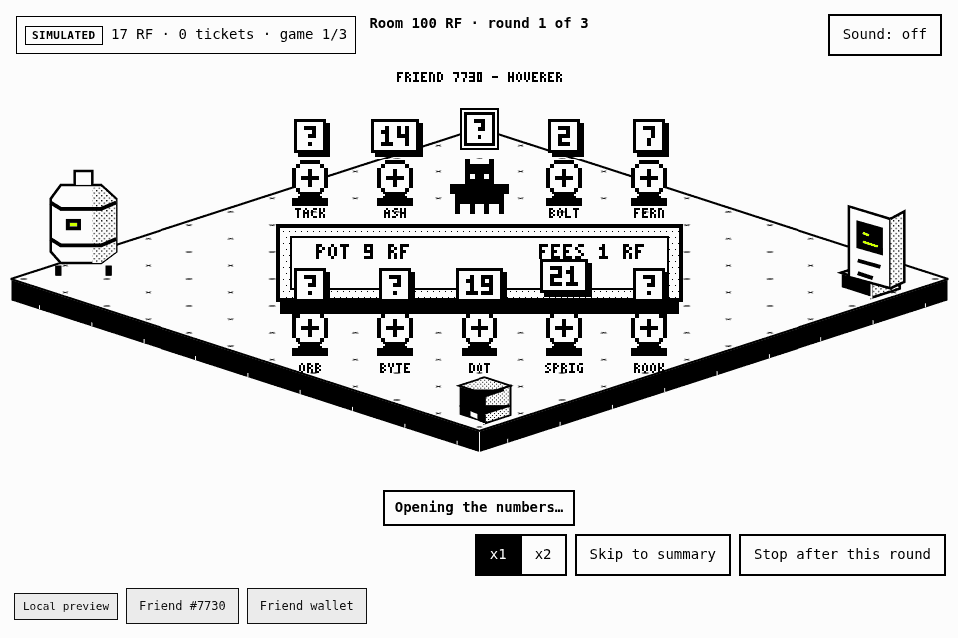
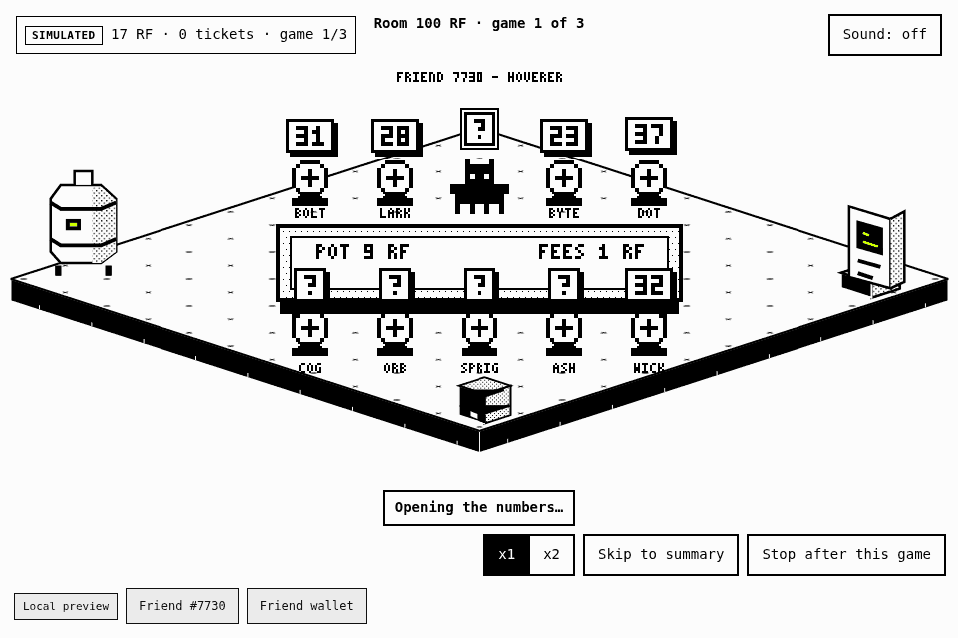
Use "game" everywhere in the Friend Rooms UI and tidy two menu texts
The interface now says "game" instead of "round" (table title, Stop after this game, Resume N
unfinished games, errors), because "round" is reserved for the future timer-started batch of
tables. The door menu says "All amounts are SIMULATED." and the locked door text now refers to
stake levels, rounds with real players and a room contract. Game logic and rules are unchanged.
Tests, the capture script and all images are updated; the README gains a roadmap and a short
Design decisions section.

diff --git a/games/friend-rooms/index.tsx b/games/friend-rooms/index.tsx
@@ -166,7 +166,7 @@ export default function FriendRooms({ friendId, client, paused }: GameComponentP
     setRevealed(SEATS);
   }
 
-  /** Settle each round with the SDK, then deal a table that matches its result and open it. */
+  /** Settle each game with the SDK, then deal a table that matches its result and open it. */
   async function playRounds(ids: readonly bigint[], version: number) {
     stop.current = false; skip.current = false; setStopping(false); setSkipping(false);
     setScreen("room"); setVisited(true); setPhase("playing"); setRound(null); setRevealed(0);
@@ -179,7 +179,7 @@ export default function FriendRooms({ friendId, client, paused }: GameComponentP
         const result = await client.settle(id);
         if (version !== epoch.current) return;
         const outcome = result.outcomeId === null ? undefined : definition.outcomes[result.outcomeId - 1];
-        if (!outcome) throw new Error("This round is still pending. Use Resume to continue it.");
+        if (!outcome) throw new Error("This game is still pending. Use Resume to continue it.");
         const deal = dealTable(outcome.reward > 0n);
         done++;
         setRound({ number: done, deal }); setRevealed(0); setProgress({ done, total: ids.length });
@@ -194,7 +194,7 @@ export default function FriendRooms({ friendId, client, paused }: GameComponentP
         if (version !== epoch.current) return;
       }
     } catch (cause) {
-      if (version === epoch.current) { setError(errorText(cause, "A round could not be settled.")); setPhase("stopped"); void client.read().then(setSnapshot); }
+      if (version === epoch.current) { setError(errorText(cause, "A game could not be settled.")); setPhase("stopped"); void client.read().then(setSnapshot); }
       return;
     }
     const after = await client.read();
@@ -203,7 +203,7 @@ export default function FriendRooms({ friendId, client, paused }: GameComponentP
     setPhase(after.plays.some(play => play.outcomeId === null) ? "stopped" : "done"); setStopping(false);
   }
 
-  /** One SDK prompt to buy the missing tickets, one to use them, then the rounds play one after another. */
+  /** One SDK prompt to buy the missing tickets, one to use them, then the games play one after another. */
   const start = (gamesToPlay: number) => run(async version => {
     const current = await client.read();
     const missingTickets = BigInt(gamesToPlay) - current.consumables;
@@ -214,7 +214,7 @@ export default function FriendRooms({ friendId, client, paused }: GameComponentP
     await playRounds(plays.map(play => play.id), version);
   });
 
-  /** Unfinished rounds stay with the Friend. Resume settles those same plays; it never buys or uses another ticket. */
+  /** Unfinished games stay with the Friend. Resume settles those same plays; it never buys or uses another ticket. */
   const resume = () => run(async version => {
     const pending = (await client.read()).plays.filter(play => play.outcomeId === null).map(play => play.id);
     if (!pending.length) { load(); return; }
@@ -234,7 +234,7 @@ export default function FriendRooms({ friendId, client, paused }: GameComponentP
   const toggleSound = () => { const next = !muted; setMuted(next); sound.current?.setMuted(next); if (!next) void sound.current?.unlock(); };
   const soundState = muted ? "off" : "on", soundAction = muted ? "turn on" : "turn off";
   const missing = Math.max(0, games - Number(snapshot.consumables));
-  const blocked = unfinished.length > 0 ? "Finish your unfinished rounds first." : maxGames === 0
+  const blocked = unfinished.length > 0 ? "Finish your unfinished games first." : maxGames === 0
     ? (snapshot.rfBalance < definition.price ? "Not enough simulated RF for a ticket." : "New tickets are paused until winnings are collected and prize backing is free again.") : "";
   const hud = <div className="fr-hud"><span><b className="fr-tag">SIMULATED</b> {rf(snapshot.rfBalance)} · {snapshot.consumables.toString()} tickets
     {screen === "room" && progress.total > 0 && <> · game {progress.done}/{progress.total}</>}</span>
@@ -253,7 +253,7 @@ export default function FriendRooms({ friendId, client, paused }: GameComponentP
       <RoomScene friendId={friendId} deal={round?.deal ?? null} revealed={revealed} reducedMotion={reducedMotion}
         potLabel={rf(economy.pot)} feeLabel={rf(economy.tableFees)} />
       {hud}
-      <p className="fr-room-title">{round ? `Room ${designRf} RF · round ${round.number} of ${progress.total}` : `Room ${designRf} RF`}</p>
+      <p className="fr-room-title">{round ? `Room ${designRf} RF · game ${round.number} of ${progress.total}` : `Room ${designRf} RF`}</p>
       <p className="fr-result">{round && revealed >= SEATS
         ? <><b role="status">{describeResult(round.deal)}</b>{round.deal.won && <span> +{rf(prize)} SIMULATED</span>}</>
         : <b role="status">{round ? "Opening the numbers…" : phase === "playing" ? "Dealing the table…" : "Table closed."}</b>}</p>
@@ -263,8 +263,8 @@ export default function FriendRooms({ friendId, client, paused }: GameComponentP
             <button type="button" aria-pressed={speed === 1} onClick={() => setSpeed(1)}>x1</button>
             <button type="button" aria-pressed={speed === 2} onClick={() => setSpeed(2)}>x2</button></span>
           <button type="button" disabled={skipping || paused} onClick={() => { skip.current = true; setSkipping(true); }}>{skipping ? "Skipping…" : "Skip to summary"}</button>
-          <button type="button" disabled={stopping || paused} onClick={() => { stop.current = true; setStopping(true); }}>{stopping ? "Stopping…" : "Stop after this round"}</button></> : <>
-          {phase === "stopped" && unfinished.length > 0 && <button type="button" className="rf-frame-primary" disabled={busy || paused} onClick={() => void resume()}>Resume {unfinished.length} unfinished {unfinished.length === 1 ? "round" : "rounds"}</button>}
+          <button type="button" disabled={stopping || paused} onClick={() => { stop.current = true; setStopping(true); }}>{stopping ? "Stopping…" : "Stop after this game"}</button></> : <>
+          {phase === "stopped" && unfinished.length > 0 && <button type="button" className="rf-frame-primary" disabled={busy || paused} onClick={() => void resume()}>Resume {unfinished.length} unfinished {unfinished.length === 1 ? "game" : "games"}</button>}
           <button type="button" className={phase === "done" ? "rf-frame-primary" : undefined} disabled={paused} onClick={() => setMenu("receipt")}>Session receipt</button>
           <button type="button" disabled={busy || paused} onClick={backToHall}>Back to the hall</button></>}
       </div>
@@ -284,18 +284,18 @@ export default function FriendRooms({ friendId, client, paused }: GameComponentP
         <table><thead><tr><th>Result</th><th>Chance</th><th>Prize</th></tr></thead><tbody>{definition.outcomes.map(item =>
           <tr key={item.name}><td>{item.name}</td><td>{item.chanceBps / 100}%</td><td>{rf(item.reward)}</td></tr>)}</tbody></table>
         {winsWaiting > 0n && <p>Winnings waiting: {rf(winningsWaiting)}. <button type="button" disabled={busy || paused} onClick={() => void collect()}>Collect winnings</button></p>}
-        {unfinished.length > 0 && <p>You have {unfinished.length} unfinished {unfinished.length === 1 ? "round" : "rounds"}.
-          {" "}<button type="button" className="rf-frame-primary" disabled={busy || paused} onClick={() => void resume()}>Finish unfinished rounds</button></p>}
+        {unfinished.length > 0 && <p>You have {unfinished.length} unfinished {unfinished.length === 1 ? "game" : "games"}.
+          {" "}<button type="button" className="rf-frame-primary" disabled={busy || paused} onClick={() => void resume()}>Finish unfinished games</button></p>}
         <label>Games to play: <b>{games}</b>
           <input type="range" min={1} max={Math.max(maxGames, 1)} value={games} disabled={maxGames < 2 || busy || paused} aria-label="Games to play"
             onChange={event => setGames(Number(event.target.value))} /></label>
-        <p>{games} {games === 1 ? "game" : "games"} · {rf(definition.price * BigInt(games))}, including {rf(economy.fee * BigInt(games))} table fee (burned in the model). SIMULATED. You confirm {missing > 0 ? "two SDK prompts: buy the tickets, then use them" : "one SDK prompt: use your tickets"}. The Friend then plays all games on its own.</p>
+        <p>{games} {games === 1 ? "game" : "games"} · {rf(definition.price * BigInt(games))}, including {rf(economy.fee * BigInt(games))} table fee (burned in the model). All amounts are SIMULATED. You confirm {missing > 0 ? "two SDK prompts: buy the tickets, then use them" : "one SDK prompt: use your tickets"}. The Friend then plays all games on its own.</p>
         <button type="button" className="rf-frame-primary" disabled={Boolean(blocked) || busy || paused} onClick={() => void start(games)}>Play {games} {games === 1 ? "game" : "games"} · {rf(definition.price * BigInt(games))}</button>
         {blocked && <p>{blocked}</p>}
         <p>Each ticket reserves {rf(prize)} of prize backing in the SDK preview, so a run is limited to {maxGames} {maxGames === 1 ? "game" : "games"} right now.</p>
       </> : menu === "locked" ? <>
         <p>Room {count(lockedRoom)} RF needs future SDK support.</p>
-        <p>SDK v0.1 sells one ticket type in a private preview. Higher stakes need several ticket tiers, shared rooms and a room contract.</p>
+        <p>SDK v0.1 sells one ticket type in a private preview. Stake levels need several ticket tiers, rounds with real players and a room contract.</p>
         <button type="button" onClick={() => setMenu(null)}>Close</button>
       </> : menu === "receipt" ? <>
         <table><tbody>
@@ -310,7 +310,7 @@ export default function FriendRooms({ friendId, client, paused }: GameComponentP
         </tbody></table>
         <p>Table fees are a model of a future room contract. SDK v0.1 does not burn RF: the whole ticket stays in the preview ledger as game backing.</p>
         {winsWaiting > 0n && <p>Winnings waiting: {rf(winningsWaiting)}. <button type="button" className="rf-frame-primary" disabled={busy || paused} onClick={() => void collect()}>Collect winnings</button></p>}
-        {unfinished.length > 0 && <p>{unfinished.length} unfinished {unfinished.length === 1 ? "round remains" : "rounds remain"}. Use Resume at the table.</p>}
+        {unfinished.length > 0 && <p>{unfinished.length} unfinished {unfinished.length === 1 ? "game remains" : "games remain"}. Use Resume at the table.</p>}
         <button type="button" onClick={() => setMenu(null)}>Close</button>
       </> : <>
         <button type="button" onClick={toggleSound}>Sound: {soundState} — {soundAction}</button>

diff --git a/games/friend-rooms/README.md b/games/friend-rooms/README.md
@@ -14,9 +14,9 @@ label for its simulated mode. The Rare Friends team [welcomed this hosted previe
 
 ## Screenshots
 
-![One round: the numbers open one by one, bots from the lowest up and the Friend last, then a win with HIGHEST! and +9 RF SIMULATED](media/round.gif)
+![One game: the numbers open one by one, bots from the lowest up and the Friend last, then a win with HIGHEST! and +9 RF SIMULATED](media/round.gif)
 
-*One round, played at x1 speed: bots open from the lowest number up, the Friend's number opens last, then the win.*
+*One game, played at x1 speed: bots open from the lowest number up, the Friend's number opens last, then the win.*
 
 | Hall with the working door and three locked doors | Table during the reveal (closed plates show ?) |
 | --- | --- |
@@ -33,8 +33,8 @@ simulated. Regenerate them with `node games/friend-rooms/capture-media.mjs` (nee
 - Move with WASD, the arrow keys, or tap/click a destination. Walk to a door and press E (or tap its label).
 - The **Room 100 RF** door opens the room menu. Choose how many games to play, then confirm the SDK prompts:
   one to buy the tickets and one to use them. Your Friend then plays every game on its own.
-- Use **Stop after this round** to pause a run. Unfinished rounds stay with your Friend; **Resume** settles those
-  same rounds and never buys or uses another ticket.
+- Use **Stop after this game** to pause a run. Unfinished games stay with your Friend; **Resume** settles those
+  same games and never buys or uses another ticket.
 - Winnings wait in your inventory until you press **Collect winnings** (one more SDK prompt).
 - Sound is off by default. The small **Sound** button in the top bar (in the hall and at the table) and the button in Settings turn it on and off; each says whether sound is on or off and what pressing it does. Settings also has reduce motion, which is also read from your system setting.
 - The three other doors (Room 1,000 / 10,000 / 100,000 RF) are locked: they need future SDK support.
@@ -54,7 +54,7 @@ simulated. Regenerate them with `node games/friend-rooms/capture-media.mjs` (nee
 | Backing | Each ticket reserves 9 RF of prize backing, so one run is limited to 11 games in the SDK preview |
 | Redemption | Fixed value, no expiry, paid to the selected Friend's wallet in a future approved integration |
 
-**The SDK result decides your outcome.** After each round the SDK settles the ticket. The table is then dealt to match it:
+**The SDK result decides your outcome.** After each game the SDK settles the ticket. The table is then dealt to match it:
 a win gives your Friend the highest number, a loss gives it one of the lower numbers, chosen evenly. Because one table
 seat in ten wins, this matches the 10% chance in `game.json`. The numbers and bots are presentation only.
 
@@ -85,7 +85,24 @@ your Friend's own fees were 0.1 RF per game, 1,000 RF. These fees are a model; t
 Reproduce it from the SDK root: `node games/friend-rooms/simulate.mjs 10000 20260920` (leave out the seed to use the SDK's
 randomness). `table.test.mjs` pins the seeded numbers above, so this section cannot drift from the code.
 
+## Design decisions
+
+- **Scale 1/100.** The SDK preview wallet is fixed at 20 RF, so "Room 100 RF" is played with 1 RF tickets. The ratios (a 10% table fee, a 9x prize) are the same as at full size.
+- **The fee is separated at entry.** Each ticket splits into 0.9 RF for the pot and 0.1 RF for the table fee. The pot is known in full from the start, and in a future contract the fee pays the costs of a round before the rest is burned. Odds and amounts are the same as taking 10% at the end.
+- **Bots are tokens, not Friends.** Neighbors are plain round tokens marked SIMULATED, so no Friend artwork is faked. In a real room they would be real Friends at the same scale.
+- **Burn example (estimate).** At the 100 RF level a table of 10 players pays 100 RF in table fees. If the costs of that round are about $0.10 (about 32 RF at the estimated prices below), about 68 RF per table is burned, so 1,000 such tables burn about 68,000 RF. Estimate as of 2026-09-20; see "Minimum ticket size".
+- **A tournament prize is always covered.** A tournament starts only with a minimum number of entrants, or its prize grows with the number of entry fees paid, so the prize never depends on money that has not come in.
+- **Several accounts give no edge.** Sitting at a duel table against yourself is pointless: both seats have equal chances and the table fee is paid anyway. Every ticket keeps the same 90% average return, so extra accounts cannot beat the table.
+
 ## Future SDK support
+
+**Roadmap in five steps**
+
+1. **Duel:** two real players at one table of 2 (needs shared rooms and a room contract).
+2. **Rounds on a timer:** tables of 2 to 10 for whoever has signed up, with one keeper transaction and one Dice randomness per round.
+3. **Stake levels:** the locked doors, Room 1,000 / 10,000 / 100,000 RF, become playable.
+4. **Tournaments with an NFT prize:** a bracket of tables of 10 ending in a final table (needs wearable NFTs and NFT prizes).
+5. **A Friend's own world as style:** the hall takes its look from the selected Friend's Scenery and Floor.
 
 Friend Rooms is a preview. A real version needs SDK capabilities that do not exist in v0.1. Nothing in this game
 pretends otherwise: every amount is labeled SIMULATED and the locked doors say so.
@@ -110,7 +127,7 @@ pretends otherwise: every amount is labeled SIMULATED and the locked doors say s
 ### How real Friends join rooms
 
 In this preview every neighbor is a bot. In a future version a room is played in rounds, and a round is made of tables. (In
-this preview a "round" is one game with one ticket; below, a round is one timer-started batch of tables.)
+this preview one ticket is one "game"; below, a "round" is one timer-started batch of tables.)
 
 1. **The unit of play is a table of up to 10 seats.** The rooms (100, 1,000, 10,000 and 100,000 RF) are stake levels, not
    sizes. A player sees only their own table, with neighbors at the scale of today's table, and the numbers of that table
